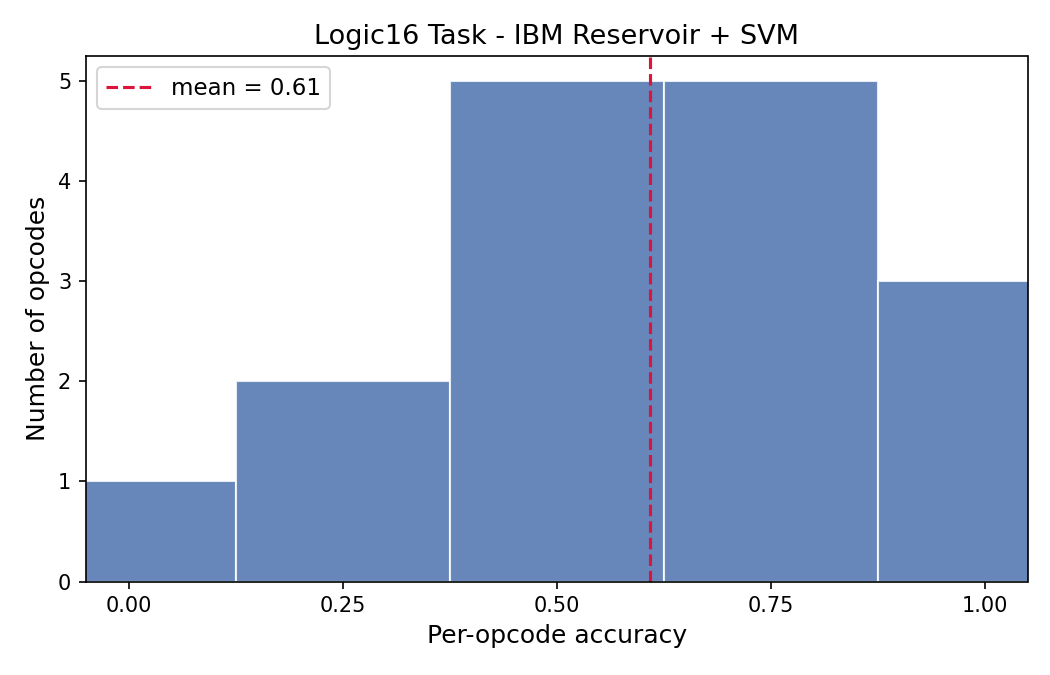
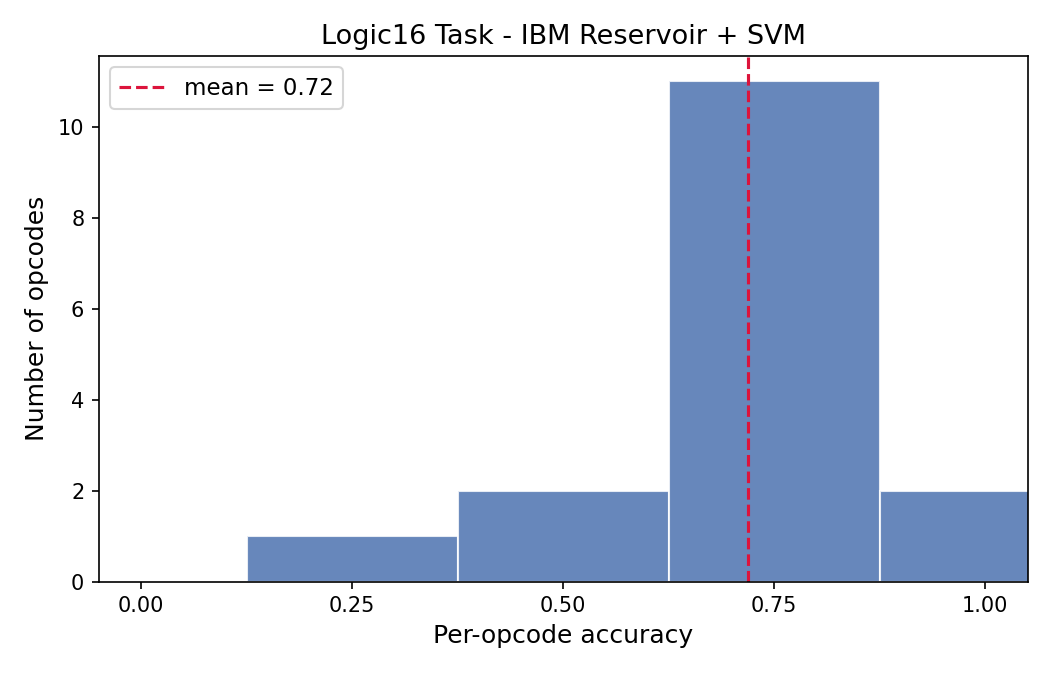
updates

diff --git a/example_tasks/task_4_learn_8_bit_with_ibm.py b/example_tasks/task_4_learn_8_bit_with_ibm.py
@@ -17,7 +17,10 @@ from computingMicrobiome.benchmarks.k_bit_memory_bm import (
     build_dataset_output_window_only,
     evaluate_memory_trials,
 )
-from computingMicrobiome.ibm import make_ibm_config_from_species
+from computingMicrobiome.ibm import (
+    make_channel_to_resource_from_config,
+    make_ibm_config_from_species,
+)
 from computingMicrobiome.plot_utils import plot_red_green_grid
 from computingMicrobiome.readouts.factory import make_readout
 
@@ -38,23 +41,33 @@ OUT_DIR.mkdir(exist_ok=True)
 # For this benchmark, each tick is separated by (ITR + 1) steps.
 TRACE_DEPTH = (D_PERIOD + BITS) * (ITR + 1) + 8
 
+# Number of input channels for the 8-bit memory benchmark.
+N_CHANNELS = 4
+
+# IBM reservoir dynamics: small diffusion/dilution and replace-mode injection.
+IBM_DIFF_NUMER = 1
+IBM_DILUTION_P = 0.02
+IBM_INJECT_SCALE = 2.0
+
 IBM_CFG = make_ibm_config_from_species(
-    # Use a small subset of the global IBM universe for this task.
     species_indices=[0, 1, 2],
     height=8,
     width_grid=8,
-    # Keep reservoir-backend specific settings aligned with this benchmark.
     overrides={
         "state_width_mode": "raw",
         "input_trace_depth": TRACE_DEPTH,
-        "input_trace_channels": 4,
+        "input_trace_channels": N_CHANNELS,
         "input_trace_decay": 1.0,
-        # For this benchmark we do not inject additional resources from input.
-        "inject_scale": 0.0,
-        "dilution_p": 0.0,
-        "diff_numer": 0,
+        "inject_scale": IBM_INJECT_SCALE,
+        "dilution_p": IBM_DILUTION_P,
+        "diff_numer": IBM_DIFF_NUMER,
     },
 )
+# Map each input channel to a resource that exists in the reservoir.
+IBM_CFG["channel_to_resource"] = make_channel_to_resource_from_config(
+    IBM_CFG, N_CHANNELS
+)
+IBM_CFG["inject_mode"] = "replace"
 
 
 def main() -> None:

diff --git a/example_tasks/task_7_learn_logic16_ibm.py b/example_tasks/task_7_learn_logic16_ibm.py
@@ -12,7 +12,10 @@ import matplotlib.pyplot as plt
 import numpy as np
 
 from computingMicrobiome.benchmarks.k_opcode_logic16_bm import N_CHANNELS, apply_opcode
-from computingMicrobiome.ibm import make_ibm_config_from_species
+from computingMicrobiome.ibm import (
+    make_channel_to_resource_from_config,
+    make_ibm_config_from_species,
+)
 from computingMicrobiome.models.k_opcode_logic16 import KOpcodeLogic16
 from computingMicrobiome.plot_utils import plot_red_green_grid
 
@@ -73,15 +76,20 @@ IBM_CFG = make_ibm_config_from_species(
         "input_trace_depth": TRACE_DEPTH,
         "input_trace_channels": N_CHANNELS,
         "input_trace_decay": 1.0,
-        # Enable IBM dynamics and allow inputs to perturb the state.
         "inject_scale": IBM_INJECT_SCALE,
         "dilution_p": IBM_DILUTION_P,
         "diff_numer": IBM_DIFF_NUMER,
-        # Allow offspring to replace occupied neighbors when competitive.
         "allow_invasion": IBM_ALLOW_INVASION,
         "invasion_energy_margin": IBM_INVASION_MARGIN,
     },
 )
+# Map each input channel to a resource that exists in the reservoir
+# (compacted list from the selected species).
+IBM_CFG["channel_to_resource"] = make_channel_to_resource_from_config(
+    IBM_CFG, N_CHANNELS
+)
+# Replace resource at injection sites (clear signal) instead of adding.
+IBM_CFG["inject_mode"] = "replace"
 
 WIDTH = int(IBM_CFG["height"]) * int(IBM_CFG["width_grid"])
 # For create_input_locations(width, recurrence, input_channels), we need:

diff --git a/src/computingMicrobiome/reservoirs/ibm_backend.py b/src/computingMicrobiome/reservoirs/ibm_backend.py
@@ -49,6 +49,10 @@ class IBMReservoirBackend:
             raise ValueError("input_trace_depth requires state_width_mode='raw'")
         self._trace_width = self._trace_depth * self._trace_channels
 
+        self._inject_mode = str(cfg.get("inject_mode", "replace")).strip().lower()
+        if self._inject_mode not in ("add", "replace"):
+            raise ValueError("inject_mode must be 'add' or 'replace'")
+
         if self._state_width_mode == "cells":
             self.width = self._cells
         else:
@@ -177,7 +181,12 @@ class IBMReservoirBackend:
             m_idx = mapping[ch % mapping.size].astype(np.int64, copy=False)
 
         R_work = self._state.R.astype(np.int32, copy=True)
-        np.add.at(R_work, (m_idx, rr, cc), add)
+        if self._inject_mode == "replace":
+            # Set resource at injection sites to the injected value so the
+            # input signal is clearly visible (no adding on top of basal).
+            R_work[m_idx, rr, cc] = add
+        else:
+            np.add.at(R_work, (m_idx, rr, cc), add)
         self._state.R = np.clip(R_work, 0, self.env.Rmax).astype(np.uint8)
 
     def step(self, rng: np.random.Generator) -> None:

diff --git a/src/computingMicrobiome/ibm/universe.py b/src/computingMicrobiome/ibm/universe.py
@@ -324,6 +324,30 @@ def make_ibm_config_from_species(
     return cfg
 
 
+def make_channel_to_resource_from_config(
+    config: Mapping[str, object],
+    n_channels: int,
+) -> list[int]:
+    """Build a channel-to-resource mapping using only resources in the reservoir.
+
+    The config's ``n_resources`` is the compacted set of resources (from the
+    selected species). Each input channel is mapped to one of these resource
+    indices so that injection uses actual reservoir metabolites.
+
+    Args:
+        config: IBM config dict with key ``n_resources``.
+        n_channels: Number of input channels (e.g. 10 for logic16).
+
+    Returns:
+        List of length n_channels: channel i maps to resource index
+        in [0, n_resources), cycling if n_channels > n_resources.
+    """
+    n_resources = int(config["n_resources"])
+    if n_resources < 1:
+        raise ValueError("config must have n_resources >= 1")
+    return [i % n_resources for i in range(n_channels)]
+
+
 def make_env_and_species_from_species(
     species_indices: Sequence[int] | None = None,
     *,

diff --git a/src/computingMicrobiome/ibm/__init__.py b/src/computingMicrobiome/ibm/__init__.py
@@ -6,6 +6,7 @@ from .universe import (
     N_RESOURCES_UNIVERSE,
     N_SPECIES_UNIVERSE,
     make_center_column_state,
+    make_channel_to_resource_from_config,
     make_env_and_species_from_species,
     make_ibm_config_from_species,
 )
@@ -18,6 +19,7 @@ __all__ = [
     "N_SPECIES_UNIVERSE",
     "N_RESOURCES_UNIVERSE",
     "make_ibm_config_from_species",
+    "make_channel_to_resource_from_config",
     "make_env_and_species_from_species",
     "make_center_column_state",
 ]
